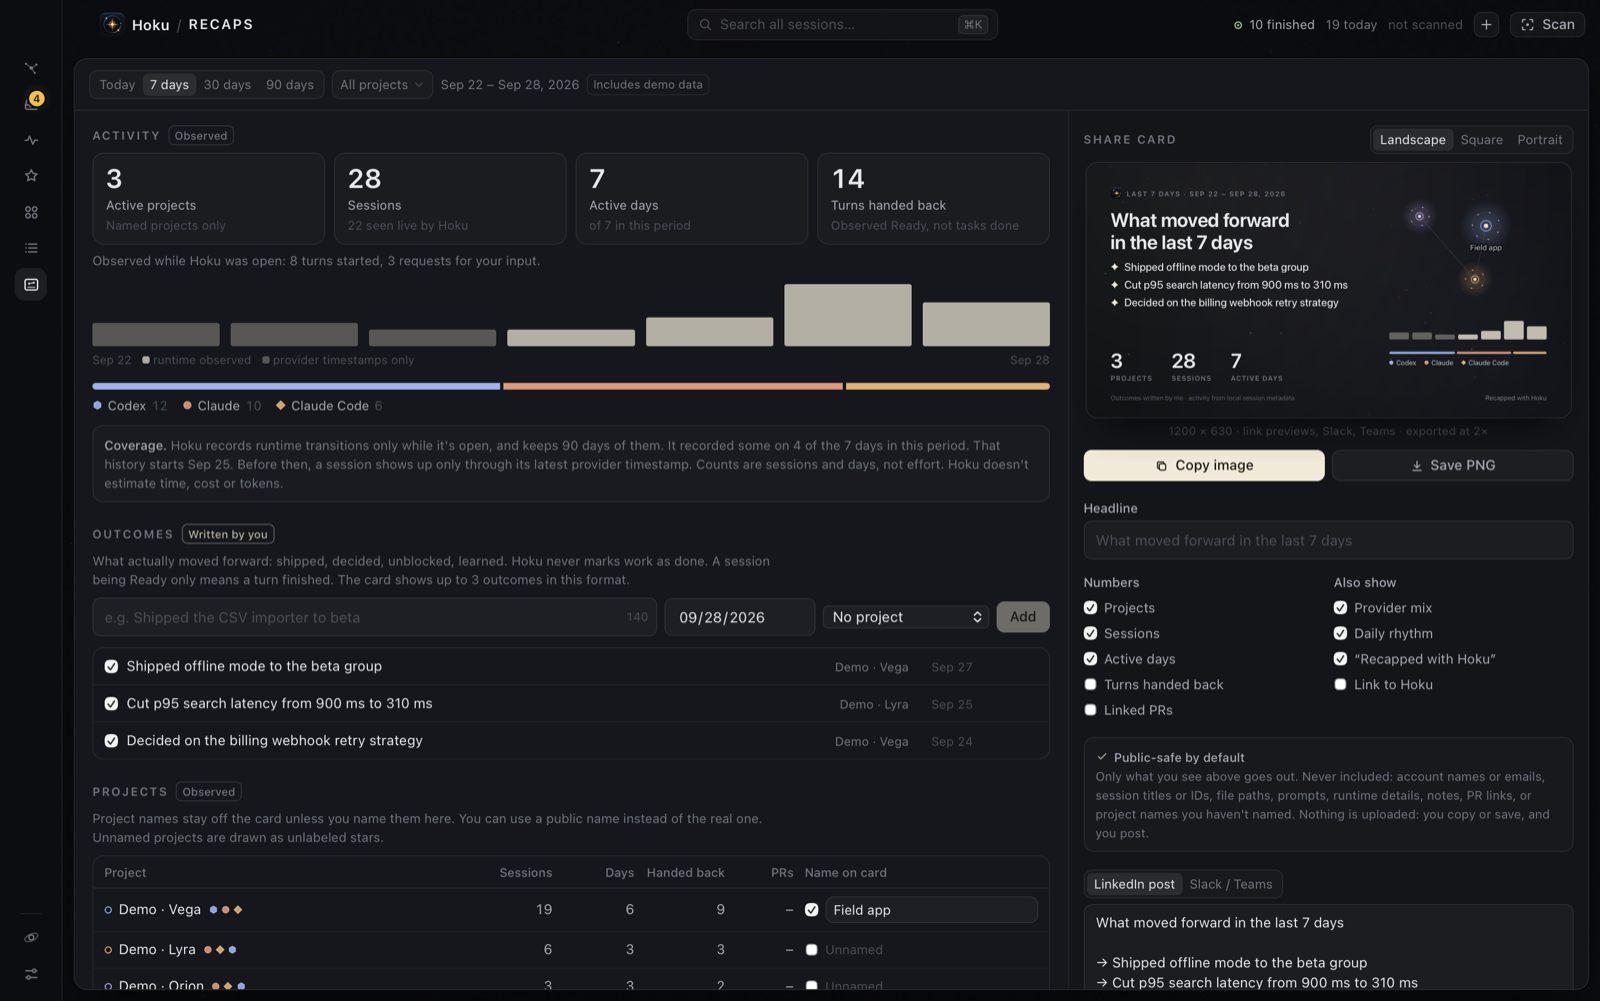
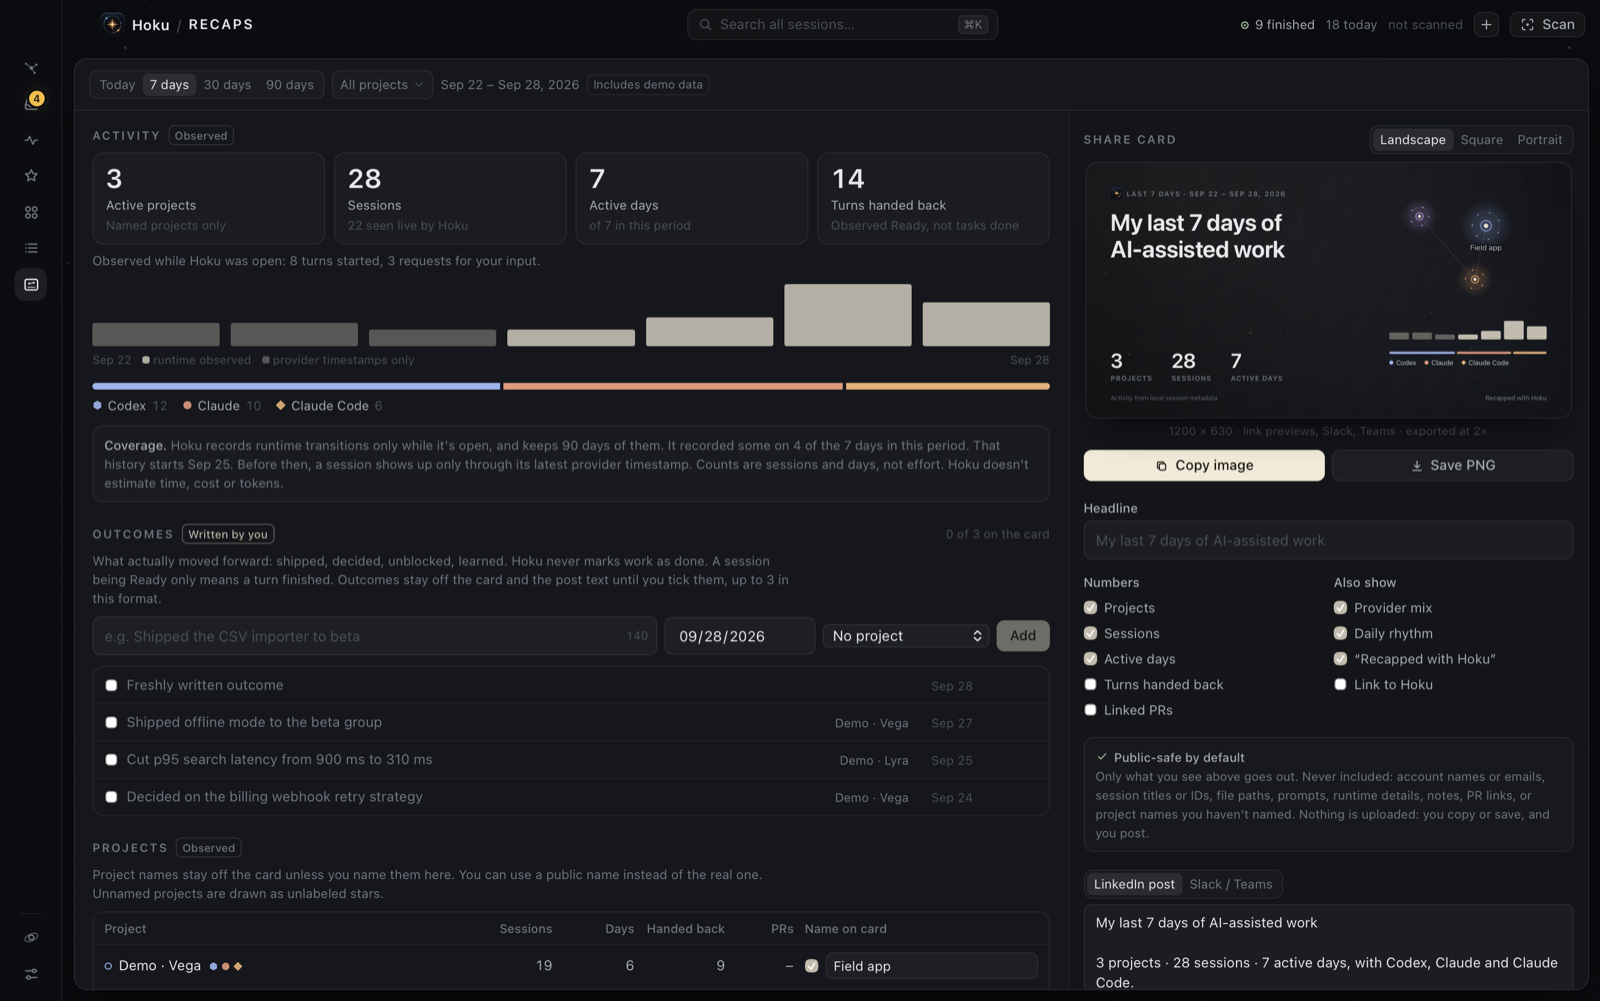
fix: keep recap outcomes off the share card until ticked
Share cards and copied text now start with no user-written outcomes.
Hoku never selects new or recent outcomes itself: each one goes on the
card only after an explicit tick, and the selection clears when the
period or projects change.

diff --git a/src/features/recaps/recaps.test.ts b/src/features/recaps/recaps.test.ts
@@ -4,7 +4,7 @@ import { NOW } from "../../test/fixtures";
 import { wrapLines } from "./card";
 import { periodLabel, periodStart, recapQuery } from "./period";
 import { coverageSentences } from "./coverage";
-import { buildCard, chatText, DEFAULT_PREFS, defaultHeadline, HOKU_URL, linkedInText, MAX_CARD_OUTCOMES, pickOutcomes, prefsFromSettings, type ShareDraft } from "./share";
+import { buildCard, chatText, DEFAULT_PREFS, defaultHeadline, EMPTY_DRAFT, HOKU_URL, linkedInText, MAX_CARD_OUTCOMES, pickOutcomes, prefsFromSettings, type ShareDraft } from "./share";
 
 function outcome(id: string, text: string, occurredOn = "2026-09-22"): Outcome {
   return { id, text, occurredOn, projectId: "p1", createdAt: "", updatedAt: "" };
@@ -32,7 +32,9 @@ function recap(p: Partial<Recap> = {}): Recap {
   };
 }
 
-const draft: ShareDraft = { headline: "", outcomeIds: null };
+const draft: ShareDraft = EMPTY_DRAFT;
+/** The user ticked every outcome. */
+const picked: ShareDraft = { headline: "", outcomeIds: ["o1", "o2", "o3", "o4"] };
 
 function everything(r: Recap, prefs = DEFAULT_PREFS, d = draft): string {
   const c = buildCard(r, "7d", prefs, d);
@@ -40,6 +42,23 @@ function everything(r: Recap, prefs = DEFAULT_PREFS, d = draft): string {
 }
 
 describe("share card privacy", () => {
+  it("starts with none of the user's outcomes on the card or in the text", () => {
+    const c = buildCard(recap(), "7d", DEFAULT_PREFS, EMPTY_DRAFT);
+    expect(c.outcomes).toEqual([]);
+    expect(c.headline).toBe("My last 7 days of AI-assisted work");
+    const out = everything(recap(), DEFAULT_PREFS, EMPTY_DRAFT);
+    for (const o of recap().outcomes) expect(out).not.toContain(o.text);
+  });
+
+  it("never picks new or recent outcomes by itself", () => {
+    const fresh = outcome("new", "Written a minute ago", "2026-09-24");
+    const r = recap({ outcomes: [fresh, ...recap().outcomes] });
+    expect(pickOutcomes(r.outcomes, EMPTY_DRAFT, "portrait")).toEqual([]);
+    // Ticking one outcome shows that one only, not the newer one above it.
+    expect(pickOutcomes(r.outcomes, { ...draft, outcomeIds: ["o3"] }, "portrait").map((o) => o.id)).toEqual(["o3"]);
+    expect(everything(r, DEFAULT_PREFS, { ...draft, outcomeIds: ["o3"] })).not.toContain("Written a minute ago");
+  });
+
   it("leaves out project names, PR links, repos and ids by default", () => {
     const out = everything(recap());
     for (const secret of ["Secret Client", "Acquisition", "acme", "secret-portal", "github.com/acme", "4d44b29a", "Unsorted", HOKU_URL]) {
@@ -74,30 +93,31 @@ describe("share card privacy", () => {
 
 describe("share card content", () => {
   it("labels where each kind of content comes from", () => {
-    const c = buildCard(recap(), "7d", DEFAULT_PREFS, draft);
+    const c = buildCard(recap(), "7d", DEFAULT_PREFS, picked);
     expect(c.footnote).toBe("Outcomes written by me · activity from local session metadata");
-    const noOutcomes = buildCard(recap({ outcomes: [] }), "7d", DEFAULT_PREFS, draft);
+    const noOutcomes = buildCard(recap(), "7d", DEFAULT_PREFS, draft);
     expect(noOutcomes.footnote).toBe("Activity from local session metadata");
     expect(linkedInText(c)).toContain("The outcomes are my own notes");
   });
 
-  it("uses the newest outcomes up to the format's limit, or exactly the ones picked", () => {
+  it("shows exactly the ticked outcomes, in recap order, up to the format's limit", () => {
     const r = recap();
-    expect(pickOutcomes(r.outcomes, draft, "landscape").map((o) => o.id)).toEqual(["o1", "o2", "o3"]);
-    expect(pickOutcomes(r.outcomes, draft, "portrait")).toHaveLength(Math.min(4, MAX_CARD_OUTCOMES.portrait));
-    expect(pickOutcomes(r.outcomes, { ...draft, outcomeIds: ["o4"] }, "landscape").map((o) => o.id)).toEqual(["o4"]);
-    expect(pickOutcomes(r.outcomes, { ...draft, outcomeIds: [] }, "landscape")).toEqual([]);
+    expect(pickOutcomes(r.outcomes, { ...draft, outcomeIds: ["o4", "o2"] }, "landscape").map((o) => o.id)).toEqual(["o2", "o4"]);
+    expect(pickOutcomes(r.outcomes, picked, "landscape")).toHaveLength(MAX_CARD_OUTCOMES.landscape);
+    expect(pickOutcomes(r.outcomes, picked, "portrait")).toHaveLength(4);
+    // A ticked outcome that left the recap (deleted, other period) is simply gone.
+    expect(pickOutcomes(r.outcomes, { ...draft, outcomeIds: ["gone"] }, "landscape")).toEqual([]);
   });
 
   it("defaults the headline to the period and whether there are outcomes", () => {
     expect(defaultHeadline("30d", true)).toBe("What moved forward in the last 30 days");
     expect(defaultHeadline("7d", false)).toBe("My last 7 days of AI-assisted work");
     expect(defaultHeadline("today", true)).toBe("What moved forward today");
-    expect(buildCard(recap(), "7d", DEFAULT_PREFS, { headline: "  Launch week  ", outcomeIds: null }).headline).toBe("Launch week");
+    expect(buildCard(recap(), "7d", DEFAULT_PREFS, { headline: "  Launch week  ", outcomeIds: [] }).headline).toBe("Launch week");
   });
 
   it("writes plain post text and a compact chat message", () => {
-    const c = buildCard(recap(), "7d", DEFAULT_PREFS, draft);
+    const c = buildCard(recap(), "7d", DEFAULT_PREFS, picked);
     const post = linkedInText(c);
     expect(post.split("\n")[0]).toBe("What moved forward in the last 7 days");
     expect(post).toContain("→ Shipped the CSV importer");

diff --git a/src/features/recaps/RecapsView.tsx b/src/features/recaps/RecapsView.tsx
@@ -15,6 +15,7 @@ import { dayKey, periodLabel, RANGES, recapQuery, shortDay, type RecapRange } fr
 import {
   buildCard,
   chatText,
+  EMPTY_DRAFT,
   FORMATS,
   linkedInText,
   MAX_CARD_OUTCOMES,
@@ -76,12 +77,12 @@ export function RecapsView() {
   const projects = useHub((s) => s.data.projects);
   const { recap, error, refresh } = useRecap(range, filter);
   const [prefs, updatePrefs] = usePrefs();
-  const [draft, setDraft] = useState<ShareDraft>({ headline: "", outcomeIds: null });
+  const [draft, setDraft] = useState<ShareDraft>(EMPTY_DRAFT);
   const [outcomeText, setOutcomeText] = useState("");
   const outcomeInput = useRef<HTMLInputElement>(null);
 
-  // A different period or project set is a different recap: start from the defaults again.
-  useEffect(() => setDraft((d) => ({ ...d, outcomeIds: null })), [range, filter]);
+  // A different period or project set is a different recap: nothing of yours is on it until you tick it.
+  useEffect(() => setDraft((d) => ({ ...d, outcomeIds: [] })), [range, filter]);
 
   const card = useMemo(() => (recap ? buildCard(recap, range, prefs, draft) : null), [recap, range, prefs, draft]);
   const toggleProject = (k: string) => setState({ recapProjects: filter.includes(k) ? filter.filter((x) => x !== k) : [...filter, k] });
@@ -312,9 +313,9 @@ function OutcomesSection({
     if (!text.trim() || busy) return;
     setBusy(true);
     try {
-      const o = await api.createOutcome({ text, occurredOn: day, projectId: project || null });
+      // Writing an outcome doesn't put it on the card; ticking it does.
+      await api.createOutcome({ text, occurredOn: day, projectId: project || null });
       setText("");
-      setDraft((d) => (d.outcomeIds && d.outcomeIds.length < max ? { ...d, outcomeIds: [...d.outcomeIds, o.id] } : d));
       onChange();
     } catch (e) {
       fail(e);
@@ -344,10 +345,17 @@ function OutcomesSection({
     <Section
       title="Outcomes"
       tag={<Tag tone="yours">Written by you</Tag>}
+      right={
+        recap.outcomes.length > 0 && (
+          <span className="text-[11px] text-ink-4 tabular-nums">
+            {onCard.size} of {max} on the card
+          </span>
+        )
+      }
       hint={
         <>
-          What actually moved forward: shipped, decided, unblocked, learned. Hoku never marks work as done. A session being Ready only means a turn finished. The card shows up to {max} outcomes in this
-          format.
+          What actually moved forward: shipped, decided, unblocked, learned. Hoku never marks work as done. A session being Ready only means a turn finished. Outcomes stay off the card and the
+          post text until you tick them, up to {max} in this format.
         </>
       }
     >
@@ -387,7 +395,7 @@ function OutcomesSection({
       </form>
 
       {recap.outcomes.length === 0 ? (
-        <p className="mt-3 text-[12px] text-ink-4">No outcomes in this period yet. Without them the card shows activity only.</p>
+        <p className="mt-3 text-[12px] text-ink-4">No outcomes in this period yet. Without ticked outcomes the card shows activity only.</p>
       ) : (
         <ul className="mt-3 divide-y divide-white/[0.04] rounded-[10px] border border-line">
           {recap.outcomes.map((o) =>

diff --git a/src/features/recaps/share.ts b/src/features/recaps/share.ts
@@ -80,9 +80,15 @@ export function prefsFromSettings(settings: Record<string, unknown>): SharePrefs
 /** Per-recap choices: an edited headline and which outcomes to show. */
 export interface ShareDraft {
   headline: string;
-  /** null = the newest outcomes, up to the format's limit. */
-  outcomeIds: string[] | null;
+  /**
+   * Outcomes the user ticked for this recap. Starts empty and is never filled in for them:
+   * an outcome reaches the card or the text only after an explicit tick, never because it's
+   * new or recent.
+   */
+  outcomeIds: string[];
 }
+
+export const EMPTY_DRAFT: ShareDraft = { headline: "", outcomeIds: [] };
 
 export interface CardStat {
   key: StatKey;
@@ -128,11 +134,10 @@ export function defaultHeadline(range: RecapRange, hasOutcomes: boolean): string
   return range === "today" ? "Today's AI-assisted work" : `My ${rangePhrase(range).replace(/^the /, "")} of AI-assisted work`;
 }
 
+/** The ticked outcomes still in this recap, in its order, up to the format's limit. Nothing ticked = none. */
 export function pickOutcomes(outcomes: Outcome[], draft: ShareDraft, format: CardFormat): Outcome[] {
-  const max = MAX_CARD_OUTCOMES[format];
-  if (draft.outcomeIds === null) return outcomes.slice(0, max);
   const chosen = new Set(draft.outcomeIds);
-  return outcomes.filter((o) => chosen.has(o.id)).slice(0, max);
+  return outcomes.filter((o) => chosen.has(o.id)).slice(0, MAX_CARD_OUTCOMES[format]);
 }
 
 /** A public label for a project, or null while the user hasn't chosen to name it. Unsorted never gets one. */

diff --git a/docs/recaps.md b/docs/recaps.md
@@ -7,7 +7,7 @@ something you wrote yourself, and the card says which is which.
 
 Open it from the rail (the card icon under Sessions) or with ⌘K → *Show Recaps*.
 
-![Recaps with demo data](images/recaps.png)
+![Recaps with demo data: outcomes start unticked](images/recaps.png)
 
 ![A landscape share card, demo data](images/recap-card.png)
 
@@ -53,9 +53,11 @@ and type in SQL, so a busy period is counted completely.
 
 Outcomes live in Hoku's own database (`recap_outcomes`, migration v4): up to 140
 characters, a local date and an optional project. They're listed in every recap whose
-period and projects include them. You pick which ones go on the card: by default the newest
-3 (landscape), 4 (square) or 5 (portrait). Deleting a project keeps its outcomes, which
-become project-less. *Remove demo data* deletes outcomes tied to demo projects.
+period and projects include them. **None of them is on the card or in the post text until
+you tick it.** Hoku never ticks one for you: not a new one, not the most recent ones. The
+selection starts empty for every recap, and changing the period or projects clears it. A
+card holds up to 3 ticked outcomes (landscape), 4 (square) or 5 (portrait). Deleting a
+project keeps its outcomes, which become project-less. *Remove demo data* deletes outcomes tied to demo projects.
 
 The linked-PR list can pre-fill an outcome ("Pull request #42: "), which you then finish
 in your own words. The repository name and link aren't copied.
@@ -85,7 +87,8 @@ Nothing is uploaded or posted automatically. Hoku still makes no network request
 ### Privacy defaults
 
 The card and the text are built only from the recap's aggregates and your own words
-(`buildCard` in `src/features/recaps/share.ts`). These are never included: account names
+(`buildCard` in `src/features/recaps/share.ts`). Your outcomes are included only when you
+tick each one. These are never included: account names
 or emails, session titles or IDs, paths, prompts, runtime details, notes and PR links. A
 project's name appears only after you tick *Name on card*. You can give it a public name
 first. Unsorted is never named. The subtle "Recapped with Hoku" line can be turned off,

diff --git a/README.md b/README.md
@@ -94,7 +94,7 @@ download.
 | **⌘K** | Search **all** sessions (including ones hidden from Current or by a filter), projects and actions. `↵` opens, `⌘↵` shows on map, `⌥↵` filters the Galaxy to its state, `⌘P` goes to its project, `⌘D` favorites, `⌘C` copies the ID. |
 | **Activity** | Cross-provider timeline of what started, finished, needed you or failed (Today / 7d / 30d). |
 | **Sessions** | The management table: search, sort, filter by project, provider, status, account, favorite, recency. |
-| **Recaps** | A shareable recap of a period (today, 7, 30 or 90 days) and some or all projects. Shows observed activity (active projects, sessions, days, provider mix, linked PRs) with its coverage, next to outcomes *you* write. Export a share card as a PNG or copy it, plus LinkedIn or Slack/Teams text. Public-safe by default: no account names, titles, IDs, paths, prompts, notes, PR links or unnamed projects. See [docs/recaps.md](docs/recaps.md). |
+| **Recaps** | A shareable recap of a period (today, 7, 30 or 90 days) and some or all projects. Shows observed activity (active projects, sessions, days, provider mix, linked PRs) with its coverage, next to outcomes *you* write (each one goes on the card only when you tick it). Export a share card as a PNG or copy it, plus LinkedIn or Slack/Teams text. Public-safe by default: no account names, titles, IDs, paths, prompts, notes, PR links or unnamed projects. See [docs/recaps.md](docs/recaps.md). |
 | **Favorites / Projects** | Left rail drawers. Projects show compact runtime summaries ("1 needs you · 2 working"). |
 | **Scan** (⌘⇧S) | Discovers Claude Code, Codex and Cowork sessions and suggests projects from their folders. |
 | **Add session** (⌘N) | Paste a Claude link, a Codex thread ID or a Claude Code session ID. |
